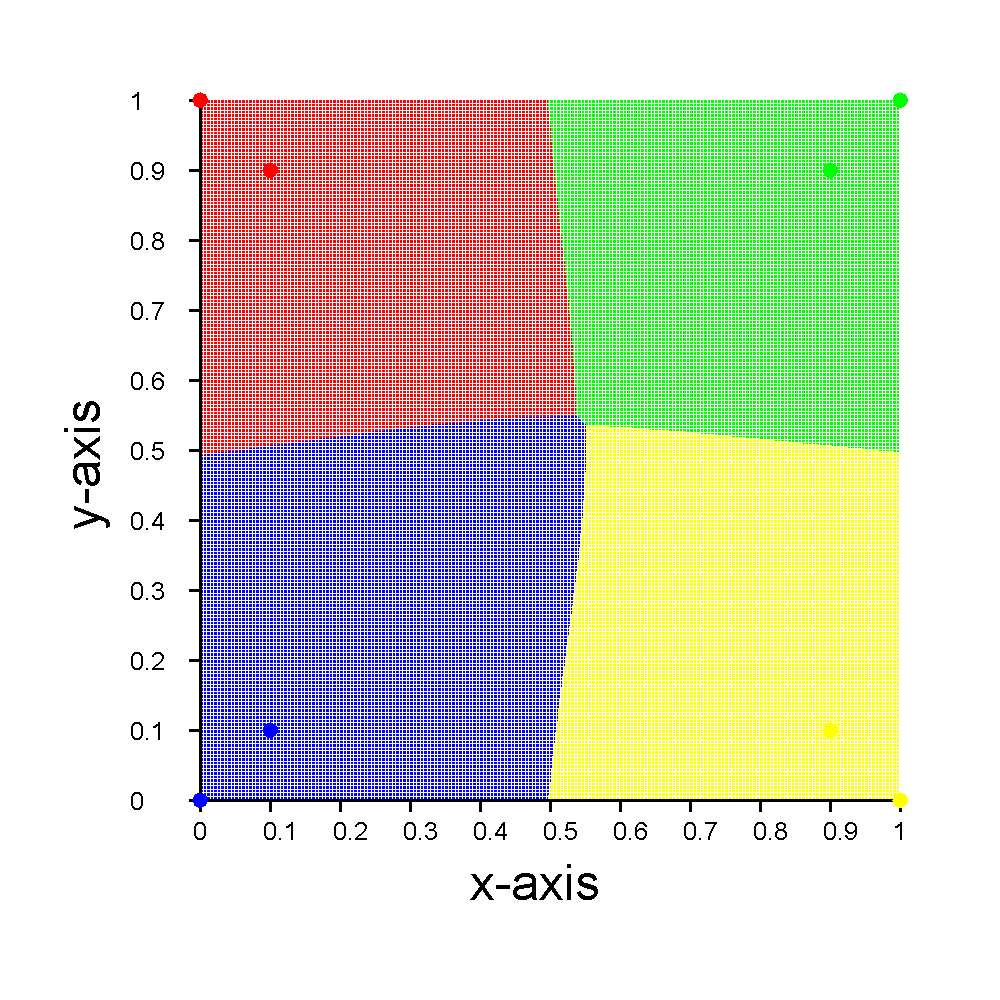
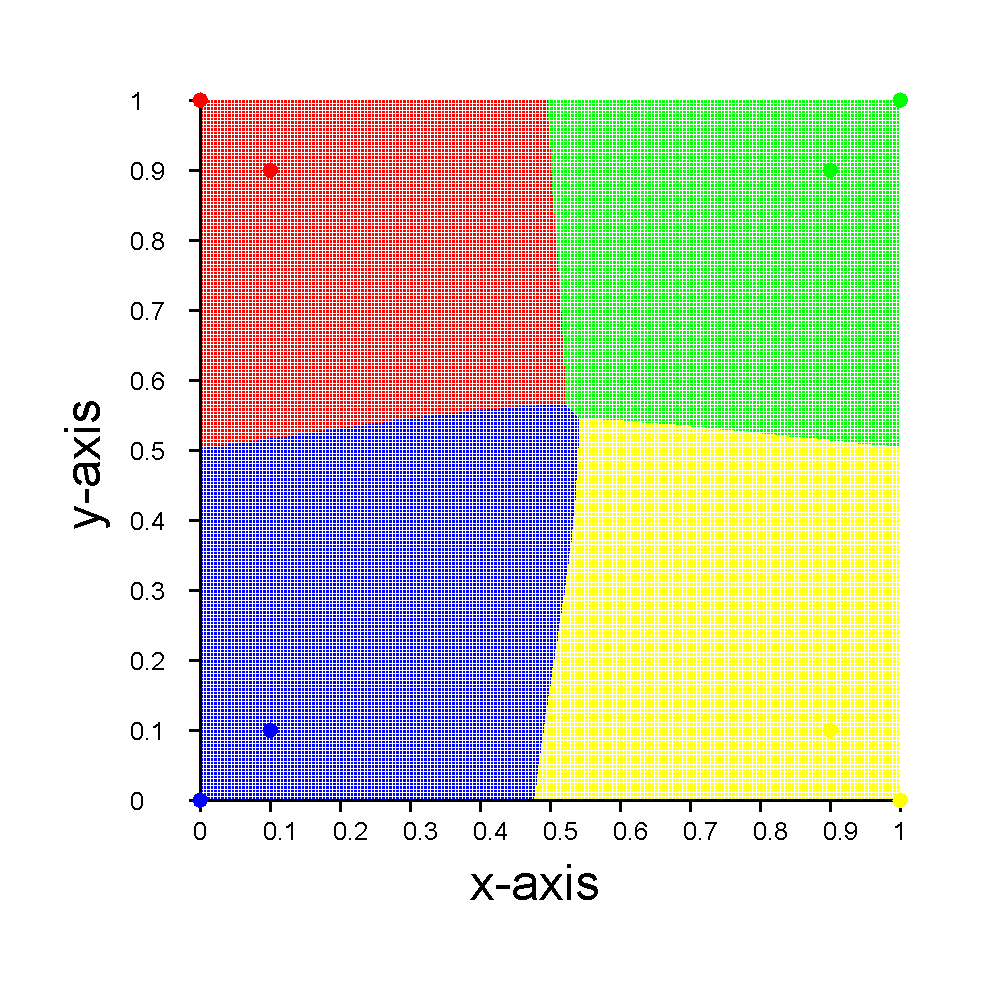
Added more test examples

Changed region(s): [[0.341, 0.248, 0.682, 0.682], [0.527, 0.682, 0.558, 0.806], [0.217, 0.434, 0.31, 0.465]]

diff --git a/src/test/GraphTest1.java b/src/test/GraphTest1.java
@@ -1,0 +1,70 @@
+package test;
+
+import java.awt.Color;
+
+import javax.swing.JFrame;
+
+import graph.Graph;
+import graph.GraphPanel;
+import layer.FCLayer;
+import network.SimpleNeuralNetwork;
+import optimizer.SGDOptimizer;
+import utils.Activation;
+import utils.Loss;
+import utils.UtilMethods;
+
+public class GraphTest1{
+	public static void main(String[] args){
+		SimpleNeuralNetwork net = new SimpleNeuralNetwork(2);
+		net.add(new FCLayer(3, Activation.sigmoid));
+		net.add(new FCLayer(4, Activation.softmax));
+		
+		double[][] x = UtilMethods.concat(UtilMethods.concat(UtilMethods.standardDist(0, 0, 0.1, 100), UtilMethods.standardDist(0, 1, 0.1, 100)), UtilMethods.concat(UtilMethods.standardDist(1, 0, 0.1, 100), UtilMethods.standardDist(1, 1, 0.1, 100)));
+		double[][] y1 = new double[100][4];
+		for(int i = 0; i < y1.length; i++){
+			y1[i] = UtilMethods.oneHotEncode(0, 4);
+		}
+		double[][] y2 = new double[100][4];
+		for(int i = 0; i < y2.length; i++){
+			y2[i] = UtilMethods.oneHotEncode(1, 4);
+		}
+		double[][] y3 = new double[100][4];
+		for(int i = 0; i < y3.length; i++){
+			y3[i] = UtilMethods.oneHotEncode(2, 4);
+		}
+		double[][] y4 = new double[100][4];
+		for(int i = 0; i < y4.length; i++){
+			y4[i] = UtilMethods.oneHotEncode(3, 4);
+		}
+		double[][] y = UtilMethods.concat(UtilMethods.concat(y1, y2), UtilMethods.concat(y3, y4));
+		net.fit(x, y, 1000, 4, Loss.crossEntropy, new SGDOptimizer(0.01), 0.01, true);
+		
+		double[] xData = new double[x.length];
+		double[] yData = new double[x.length];
+		Color[] cData = new Color[x.length];
+		Color[] intToColor1 = {Color.blue, Color.red, Color.yellow, Color.green};
+		for(int i = 0; i < x.length; i++){
+			xData[i] = x[i][0];
+			yData[i] = x[i][1];
+			cData[i] = intToColor1[UtilMethods.argMax(y[i])];
+		}
+		
+		JFrame frame = new JFrame();
+		
+		Graph graph = new Graph(1000, 1000, xData, yData, cData, (x5, y5) -> {
+			return intToColor1[UtilMethods.argMax(net.predict(new double[]{x5, y5}))];
+		});
+		graph.draw();
+		frame.add(new GraphPanel(graph));
+		
+		frame.setSize(1200, 1200);
+		frame.setLocationRelativeTo(null);
+		frame.setDefaultCloseOperation(JFrame.EXIT_ON_CLOSE);
+		frame.setVisible(true);
+		
+		graph.saveToFile("classification_example3.png", "png");
+		graph.dispose();
+		
+		net.saveToFile("model2.nn");
+	}
+}

diff --git a/src/draw/DrawablePanel2.java b/src/draw/DrawablePanel2.java
@@ -1,0 +1,73 @@
+package draw;
+
+import java.awt.Color;
+import java.awt.Dimension;
+import java.awt.Graphics;
+import java.awt.Graphics2D;
+import java.awt.event.MouseEvent;
+import java.awt.event.MouseMotionListener;
+import java.awt.image.BufferedImage;
+
+import javax.swing.JPanel;
+
+import utils.UtilMethods;
+
+@SuppressWarnings("serial")
+public class DrawablePanel2 extends JPanel{
+	private int width;
+	private int height;
+	private int xSize;
+	private int ySize;
+	private BufferedImage image;
+	private Graphics2D graphics;
+	
+	public DrawablePanel2(int width, int height, int xSize, int ySize){
+		this.width = width;
+		this.height = height;
+		this.xSize = xSize;
+		this.ySize = ySize;
+		setPreferredSize(new Dimension(width, height));
+		this.image = new BufferedImage(xSize, ySize, BufferedImage.TYPE_INT_RGB);
+		graphics = this.image.createGraphics();
+		graphics.setColor(Color.white);
+		graphics.fillRect(0, 0, xSize, ySize);
+		graphics.setColor(Color.black);
+		addMouseMotionListener(new MouseMotionListener(){
+			@Override
+			public void mouseDragged(MouseEvent e){
+				graphics.fillRect((int)((double)e.getX() / ((double)width / (double)xSize)), (int)((double)e.getY() / ((double)height / (double)ySize)), 1, 1);
+				repaint();
+			}
+			
+			@Override
+			public void mouseMoved(MouseEvent e){
+				
+			}
+		});
+	}
+	
+	public double[] getData(int outputX2, int outputY2){
+		double[][] arr = new double[xSize][ySize];
+		for(int i = 0; i < xSize; i++){
+			for(int j = 0; j < ySize; j++){
+				arr[i][j] = 1.0 - (image.getRGB(i, j) & 0xFF) / 255.0;
+			}
+		}
+		return UtilMethods.flattenData(UtilMethods.centerData(arr, outputX2, outputY2));
+	}
+	
+	public void clear(){
+		image = new BufferedImage(xSize, ySize, BufferedImage.TYPE_INT_RGB);
+		graphics = image.createGraphics();
+		graphics.setColor(Color.white);
+		graphics.fillRect(0, 0, xSize, ySize);
+		graphics.setColor(Color.black);
+		repaint();
+	}
+	
+	@Override
+	public void paintComponent(Graphics g){
+		super.paintComponent(g);
+		g.drawImage(image, 0, 0, width * width / xSize, height * height / ySize, 0, 0, width, height, null);
+	}
+}

diff --git a/src/test/MNISTTest4.java b/src/test/MNISTTest4.java
@@ -1,0 +1,55 @@
+package test;
+
+import java.awt.Dimension;
+import java.awt.FlowLayout;
+
+import javax.swing.JButton;
+import javax.swing.JFrame;
+import javax.swing.JLabel;
+
+import draw.DrawablePanel2;
+import layer.FCLayer;
+import network.SimpleNeuralNetwork;
+import utils.Activation;
+import utils.UtilMethods;
+
+public class MNISTTest4{
+	public static void main(String[] args){
+		SimpleNeuralNetwork nn = new SimpleNeuralNetwork(784);
+		nn.add(new FCLayer(300, Activation.sigmoid));
+		nn.add(new FCLayer(10, Activation.softmax));
+		nn.loadFromFile("mnist_weights.nn");
+		
+		JFrame frame = new JFrame();
+		frame.setLayout(new FlowLayout());
+		DrawablePanel2 drawablePanel = new DrawablePanel2(1000, 1000, 20, 20);
+		frame.add(drawablePanel);
+		
+		JLabel label = new JLabel("Result: ");
+		label.setFont(label.getFont().deriveFont(30.0f));
+		frame.add(label);
+		
+		JButton submitButton = new JButton("Submit");
+		submitButton.setPreferredSize(new Dimension(200, 100));
+		submitButton.setFont(submitButton.getFont().deriveFont(30.0f));
+		submitButton.addActionListener((e) -> {
+			double[] data = drawablePanel.getData(28, 28);
+			double[] result = nn.predict(data);
+			label.setText("Result: " + UtilMethods.argMax(result));
+		});
+		frame.add(submitButton);
+		
+		JButton clearButton = new JButton("Clear");
+		clearButton.setPreferredSize(new Dimension(200, 100));
+		clearButton.setFont(clearButton.getFont().deriveFont(30.0f));
+		clearButton.addActionListener((e) -> {
+			drawablePanel.clear();
+		});
+		frame.add(clearButton);
+		
+		frame.setSize(1200, 1200);
+		frame.setLocationRelativeTo(null);
+		frame.setDefaultCloseOperation(JFrame.EXIT_ON_CLOSE);
+		frame.setVisible(true);
+	}
+}

diff --git a/src/utils/UtilMethods.java b/src/utils/UtilMethods.java
@@ -2,6 +2,7 @@ package utils;
 
 import java.text.DecimalFormat;
 import java.util.Arrays;
+import java.util.Random;
 
 import edge.Edge;
 import layer.Layer;
@@ -227,5 +228,26 @@ public class UtilMethods{
 			}
 		}
 		return centeredArr;
+	}
+	
+	public static double[][] standardDist(double x, double y, double s, int n){
+		double[][] result = new double[n][2];
+		Random r = new Random();
+		for(int i = 0; i < n; i++){
+			result[i][0] = x + r.nextGaussian() * s;
+			result[i][1] = y + r.nextGaussian() * s;
+		}
+		return result;
+	}
+	
+	public static double[][] concat(double[][] a, double[][] b){
+		double[][] result = new double[a.length + b.length][b[0].length];
+		for(int i = 0; i < a.length; i++){
+			result[i] = a[i];
+		}
+		for(int i = 0; i < b.length; i++){
+			result[i + a.length] = b[i];
+		}
+		return result;
 	}
 }

diff --git a/src/graph/Graph.java b/src/graph/Graph.java
@@ -150,7 +150,7 @@ public class Graph{
 		//draw points
 		for(int i = 0; i < points.size(); i++){
 			graphics.setColor(points.get(i).getColor());
-			graphics.fillOval(padding * 2 + (int)(points.get(i).getX() / (xMax - xMin) * (width - padding * 3)) - 8, (height - padding * 2) - (int)(points.get(i).getY() / (yMax - yMin) * (height - padding * 3)) - 8, 16, 16);
+			graphics.fillOval(padding * 2 + (int)((points.get(i).getX() - xMin) / (xMax - xMin) * (width - padding * 3)) - 8, (height - padding * 2) - (int)((points.get(i).getY() - yMin) / (yMax - yMin) * (height - padding * 3)) - 8, 16, 16);
 		}
 	}
 	
